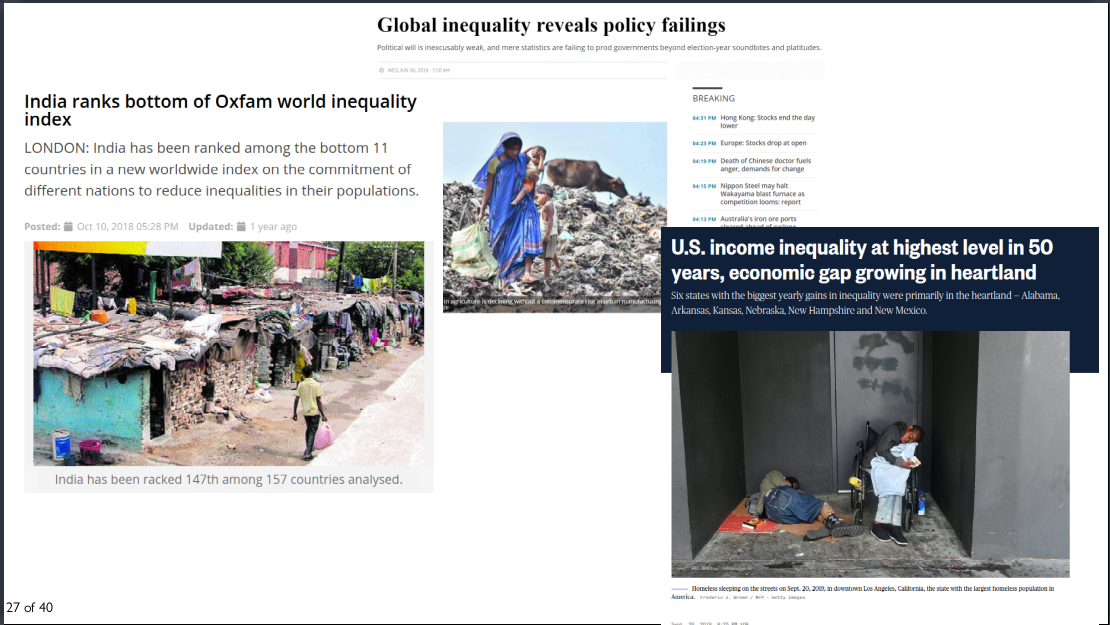
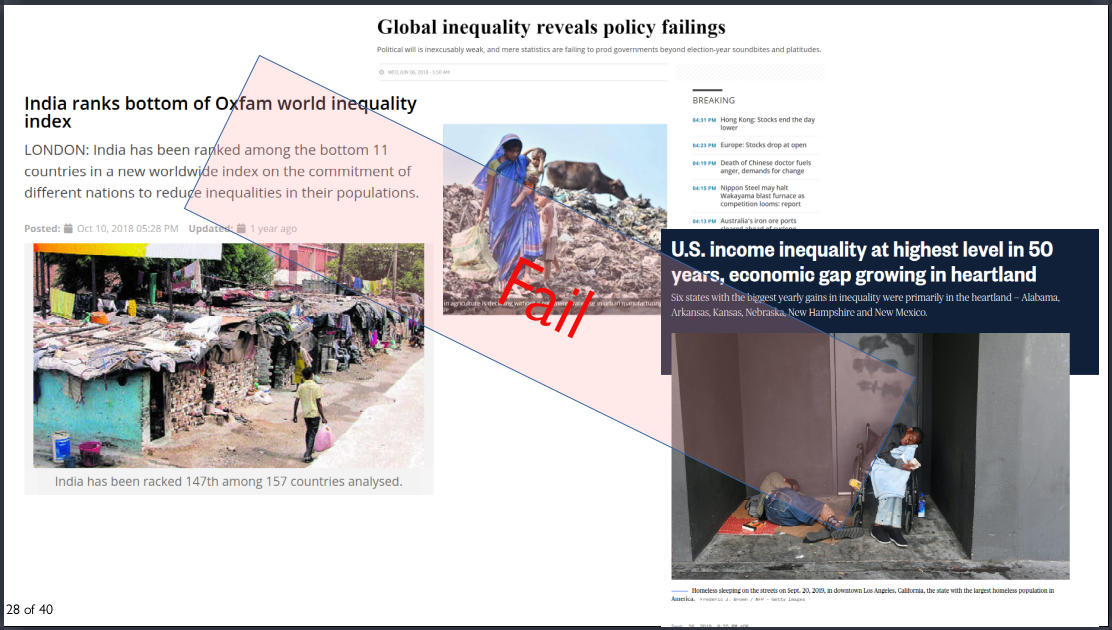
Talking about Trust - Edelman Report. Singapore

diff --git a/docs/_posts/2023-03-18-Talking-about-Trust-Edelman-Report.md b/docs/_posts/2023-03-18-Talking-about-Trust-Edelman-Report.md
@@ -1,30 +1,33 @@
 ### Talking About Trust.  Edelman Trust Barometer report 2023  
 
-On Wednesday 15 March I got to take part in the Singapore launch of the Edelman Trust Barometer APAC report.  In the event all us panelists, given our diverse backgrounds, looked to and discussed different key findings in the report.  For me, central was this:
+<img align=right width="50%" src="https://DannyQuah.github.io/Storage/Posts/2023-03-18-Talking-about-Trust-Edelman-Report-00.png" alt="Edelman Trust Barometer event poster">  
+On Wednesday 15 March I got to take part in the Singapore launch of the Edelman Trust Barometer APAC report.  In the event all us panelists, given our diverse backgrounds, looked to and discussed different key findings in the report.  For me, central was this:  
 
-Within many nations around the world a deep polarization has emerged, stemming from increased economic anxiety, disinformation, and the failure of leadership.  Across nations too, division and mistrust have surfaced between members of the international community.  Many people now fear the future.  
+*Within many nations around the world a deep polarization has emerged, stemming from increased economic anxiety, disinformation, and the failure of leadership.  Across nations too, division and mistrust have surfaced between members of the international community.  Many people now fear the future.*  
 
-<img src="https://DannyQuah.github.io/Storage/Posts/2023-03-18-Talking-about-Trust-Edelman-Report-00.png" alt="Edelman Trust Barometer event poster">  
+<img align=left width="100%" src="https://DannyQuah.github.io/Storage/Posts/2023-03-18-Talking-about-Trust-Edelman-Report-01.png" alt="Edelman Trust Barometer panel">.  
 
-<img src="https://DannyQuah.github.io/Storage/Posts/2023-03-18-Talking-about-Trust-Edelman-Report-01.png" alt="Edelman Trust Barometer panel">  
+What I sought to communicate in response:  Speak Truth to Power; Be Evidence-Based; Embrace both the Reassuring and the Awkward.  
 
-
-What I sought to communicate in response:  
-
-1.  Almost everywhere in the world, governments are trusted less than business. In APAC there are only two exceptions:  According to the Edelman survey, China is one.  The other is Singapore.  In the Edelman survey the Singapore government shows a whopping 14 percentage point lead in trust over all other significant public institutions, including business, media, and NGOs.  Elsewhere across APAC, it is Business that people trust more than Government.  
-	-  It has long been observed that on any number of important issues Singapore's policy-making institutions are collaborative and trilateral---involving government, business, and workers simultaneously.   The wage model, for one, via the National Wages Council; and what I got to witness in the recently-concluded Advisory Council for Platform Workers was another.  Agency and collaboration go a long way in building trust, and trust spills over.  
-	-  But the picture is not gloomy elsewhere, even if governments in the rest of the world are not trusted as much.  Adam Smith had said of business "It is not from the benevolence of the butcher, the brewer, or the baker, that we expect our dinner, but from their regard to their own interest."  Today, rightly, in my view, it is how the business community performs on competence and ethics that supplies the demands of ordinary people on these dimensions.  What matters is not whether business is selfish (or whether countries act purely on the basis of self-interest). What matters is what they do with that motivation, and whether they meet the right needs.  
-	-  When business compete with each other, they can behave in one of at least two ways.  (Same with nations.)  One, they can seek to win by doing better than their competition: they can invest to train their own people, and by doing so raise their own productivity, improving themselves in the process.  Or, they can seek to win exclusively by containing the other guy, thereby making themselves and everyone else the poorer for it.  
-2.  What can the rest of us do?  Speak Truth to Power; Be Evidence-Based; Embrace both the Reassuring and the Awkward.  
-	-. There is a vicious circle in trust. Lose it, and all actions to restore it are view cynically, reducing the effectiveness of institutions to restore societal trust.  
-	-  Just one example:  We need to restore trust in institutions by fighting fake news.  Inequality is often viewed as evidence of institutional failure.  
-	-  No one would condone anyone much less the press thoughtlessly spreading misinformation about MRNA vaccine.  Media should, therefore, not be repeating false nostrums about, say, inequality that pander to a social justice warrior mentality and unhelpfully lower trust in society's institutions.  (1)  If poor people today have x% of total wealth, the same percentage as a century ago, then (no matter what x is) poor people today are NOT as poor as they were in the past; they are inconsiderably wealthier: stop repeating the misinformation that growth has not benefited the poor.  (2)  Stop saying you want those from the bottom quartile to transition to the top quartile, without admitting that that means you also want people at the top to fail --- if lower classes moving to the top of the hierarchy is what you seek, then upward social mobility cannot happen without downward social mobility.  (2) Stop suggesting your stories are about inequality when what you use to move your audience are depictions of poverty.  This continues to feed the conflation between inequality and poverty.  
+This is what I mean.  
 
 <img src="https://DannyQuah.github.io/Storage/Posts/2023-03-18-Talking-about-Trust-Edelman-Report-02.png" alt="Business most trusted --- except in China and Singapore">  
 
-<img src="https://DannyQuah.github.io/Storage/Posts/2023-03-18-Talking-about-Trust-Edelman-Report-03.png" alt="Global inequality reveals policy failings">  
+1.  Almost everywhere in the world, governments are trusted less than business. In APAC there are only two exceptions:  China is one; the other is Singapore.  In the Edelman survey the Singapore government shows a whopping 14 percentage point lead in trust over all other significant public institutions, including business, media, and NGOs.  Elsewhere across APAC, it is Business that people trust more than Government.  
+	-  It has long been observed that on any number of important issues Singapore's policy-making institutions are collaborative and trilateral---involving government, business, and workers simultaneously.   The wage model, for one, via the National Wages Council; and what I got to witness in the recently-concluded Advisory Council for Platform Workers was another.  Agency and collaboration go a long way in building trust. Successfully solve problems as well, and trust spills over.  
+	-  But the picture is not entirely gloomy elsewhere, even if governments are not trusted as much.  Adam Smith had said of business "It is not from the benevolence of the butcher, the brewer, or the baker, that we expect our dinner, but from their regard to their own interest."  Today, rightly, in my view, it is how the business community performs on competence and ethics that supplies the demands of ordinary people on these dimensions.  What matters is not whether business is selfish (or, in geopolitics, whether countries act purely on the basis of self-interest; everyone does). What matters is what they do with that motivation, and whether they meet the right needs.  
+	-  When business compete with each other, they can behave in one of at least two ways.  (Same again with nations.)  One, they can seek to win by doing better than the competition: they can invest to train their own people, and by doing so raise their own productivity, improving themselves and everyone in the process.  Or, they can seek to win exclusively by containing the other guy, thereby making themselves and everyone else the poorer for it.  
 
-<img src="https://DannyQuah.github.io/Storage/Posts/2023-03-18-Talking-about-Trust-Edelman-Report-04.png" alt="The First Step to Combat Inequality">  
+<img align=right width="50%" src="https://DannyQuah.github.io/Storage/Posts/2023-03-18-Talking-about-Trust-Edelman-Report-03.png" alt="Global inequality reveals policy failings -- FAIL">  
+
+<img align=left width="50%" src="https://DannyQuah.github.io/Storage/Posts/2023-03-18-Talking-about-Trust-Edelman-Report-04.png" alt="The First Step to Combat Inequality -- FAIL">.  
+  
+
+2.  What can the rest of us do?  
+	-. There is a vicious circle in trust. Lose it, and all actions to restore it are viewed cynically, further reducing the effectiveness of institutions to restore societal trust.  
+	-  Just one example:  We need to restore trust in institutions by fighting fake news.  The prime example for me is how inequality is often viewed as the whipping boy or sufficient statistic of institutional failure.  
+	-  No one would condone spreading misinformation about MRNA vaccine, the press least of all.  So too with every other large social challenge, inequality among them.  Media should not be repeating false nostrums about inequality that pander to a social justice warrior mentality and unhelpfully lower trust in society's institutions.  (1)  If poor people today have x% of total wealth, the same percentage as a century ago, then (no matter what x is, as long as it's constant) poor people today are NOT as poor as they were in the past; they are inconsiderably wealthier: stop repeating the misinformation that growth has not benefited the poor.  (2)  Stop saying you want those from the bottom quartile to transition to the top quartile, without admitting that that means you also want people at the top to fail. Social mobility in the sense of inter-quartile dynamics is a zero-sum game.  If lower classes moving to the top of the hierarchy is what you seek, then upward social mobility cannot happen without exactly equal and opposite downward social mobility.  (2) Stop suggesting your stories are about inequality when what you use to move your audience are depictions of poverty.  This simply feeds an ongoing conflation between inequality and poverty.  
+
 
 [APAC Regional Report - 2023](https://www.edelman.hk/sites/g/files/aatuss641/files/2023-03/Edelman%20Trust%20Barometer%202023%20-%20APAC%20Report.pdf)  
 
